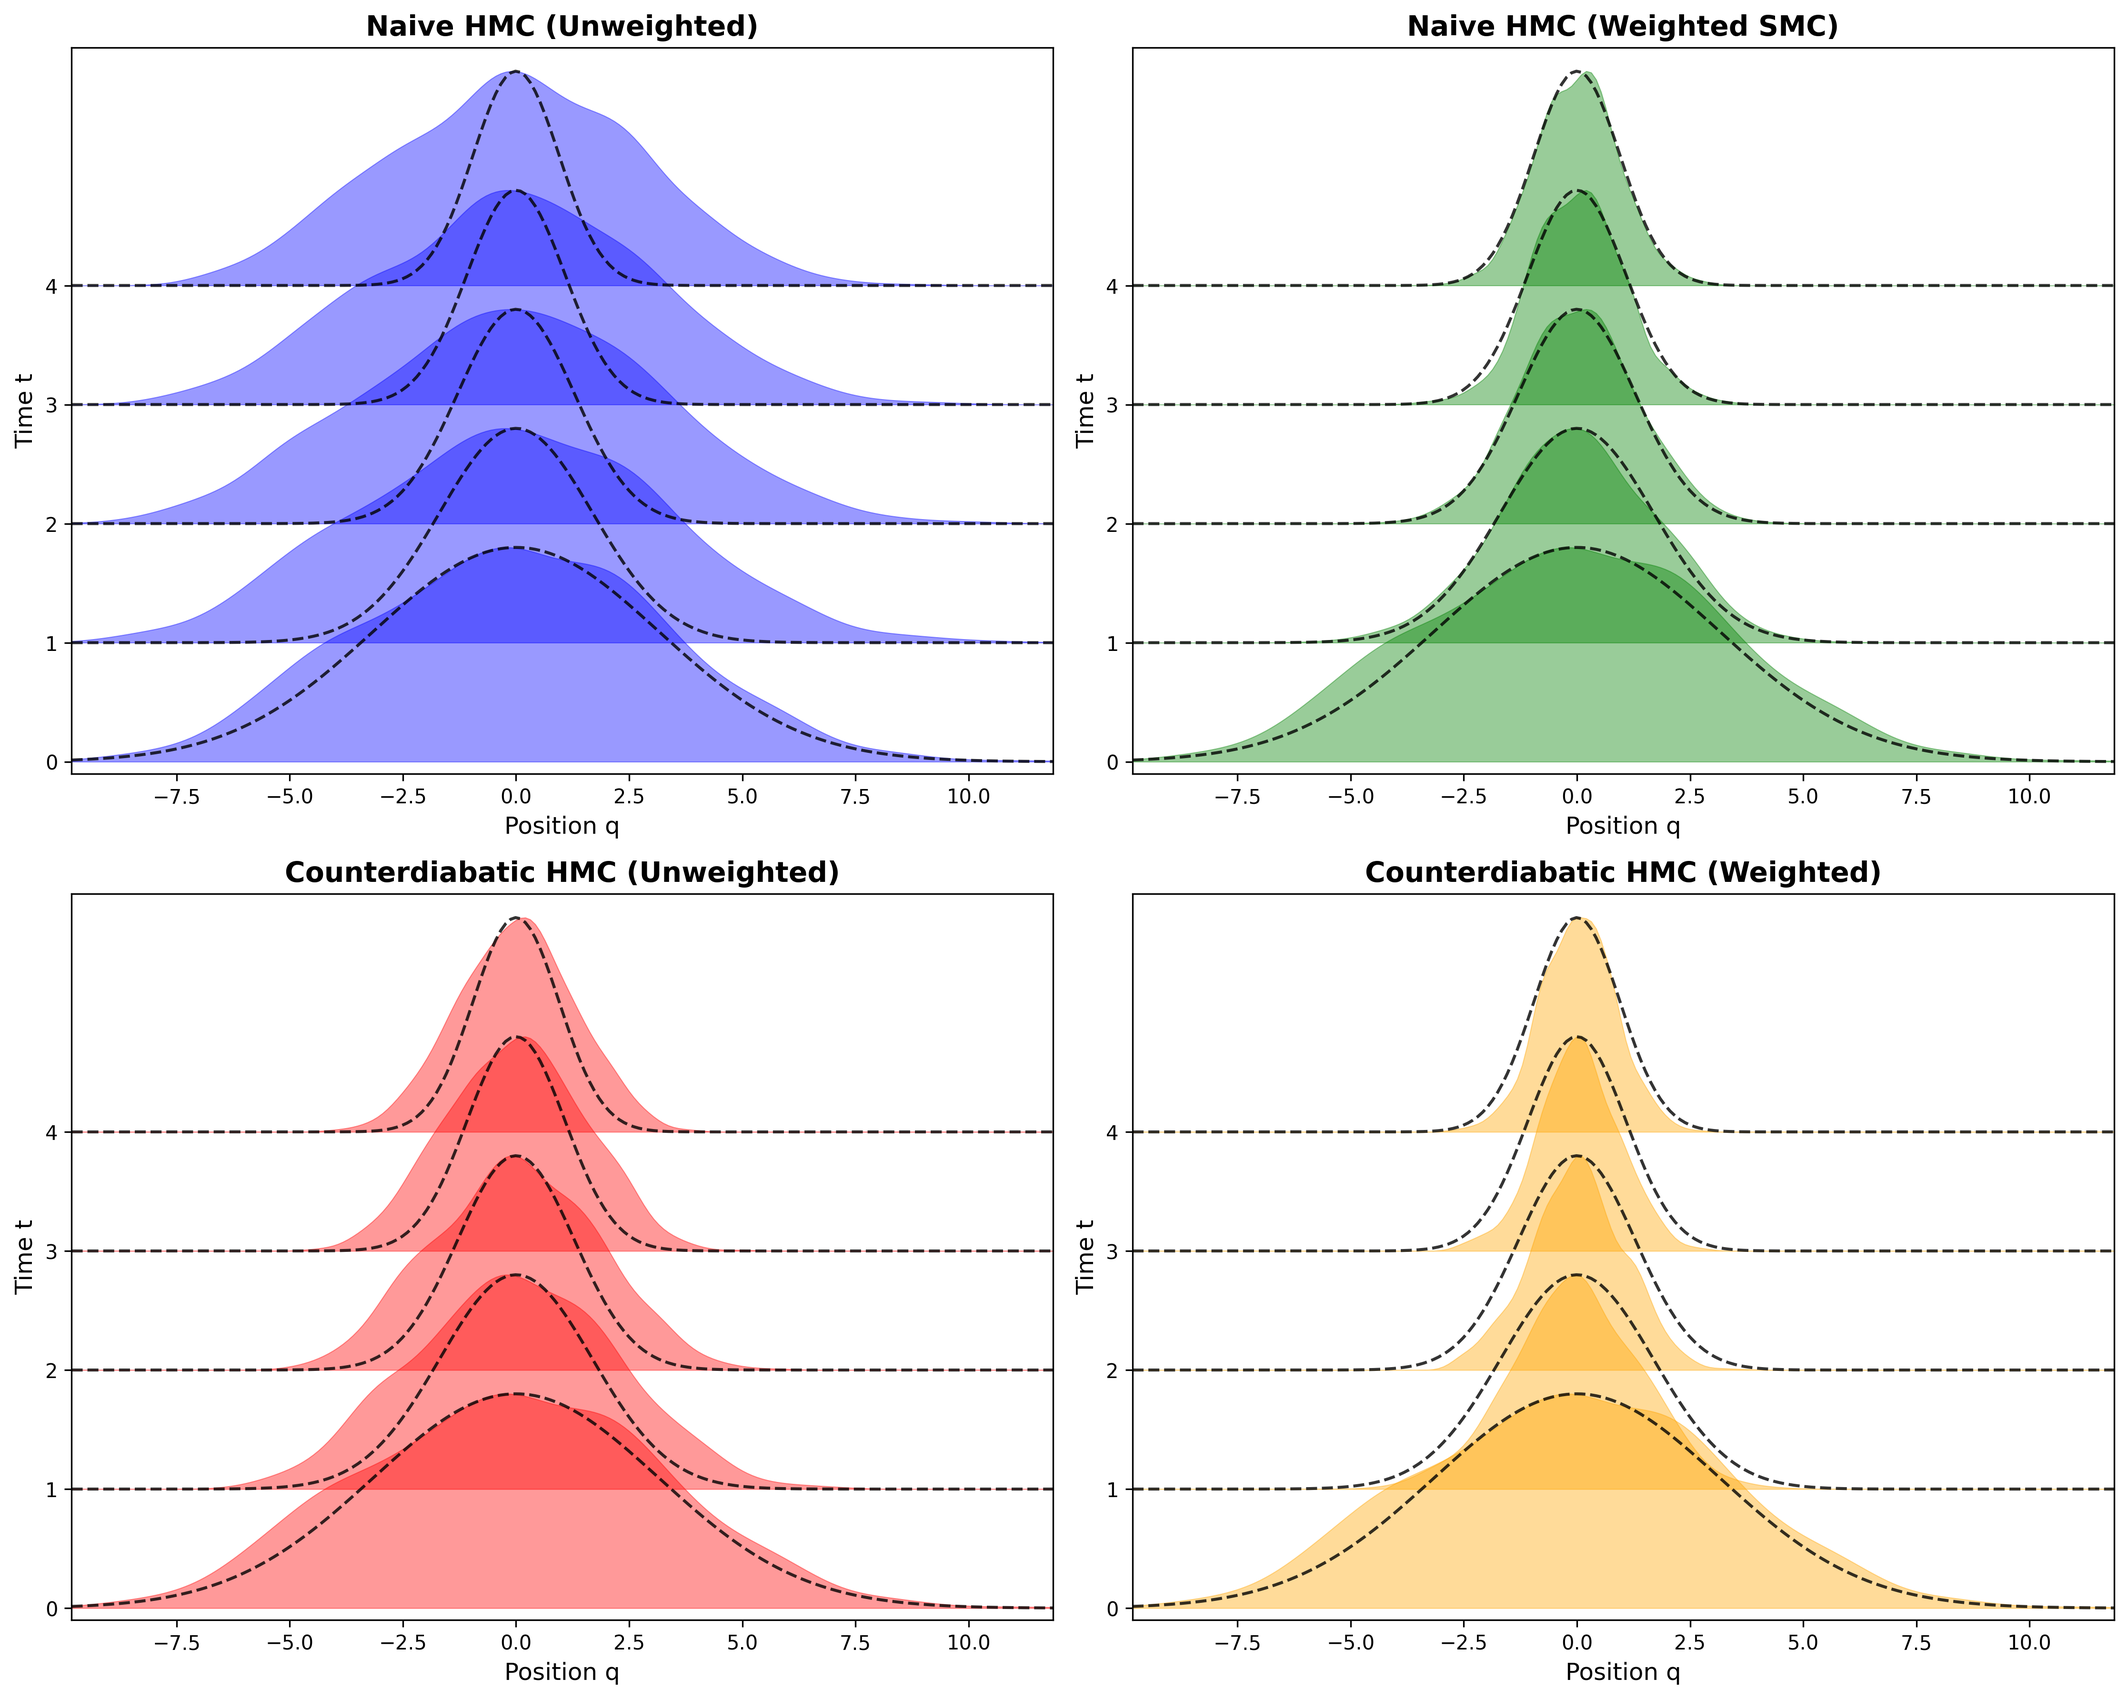
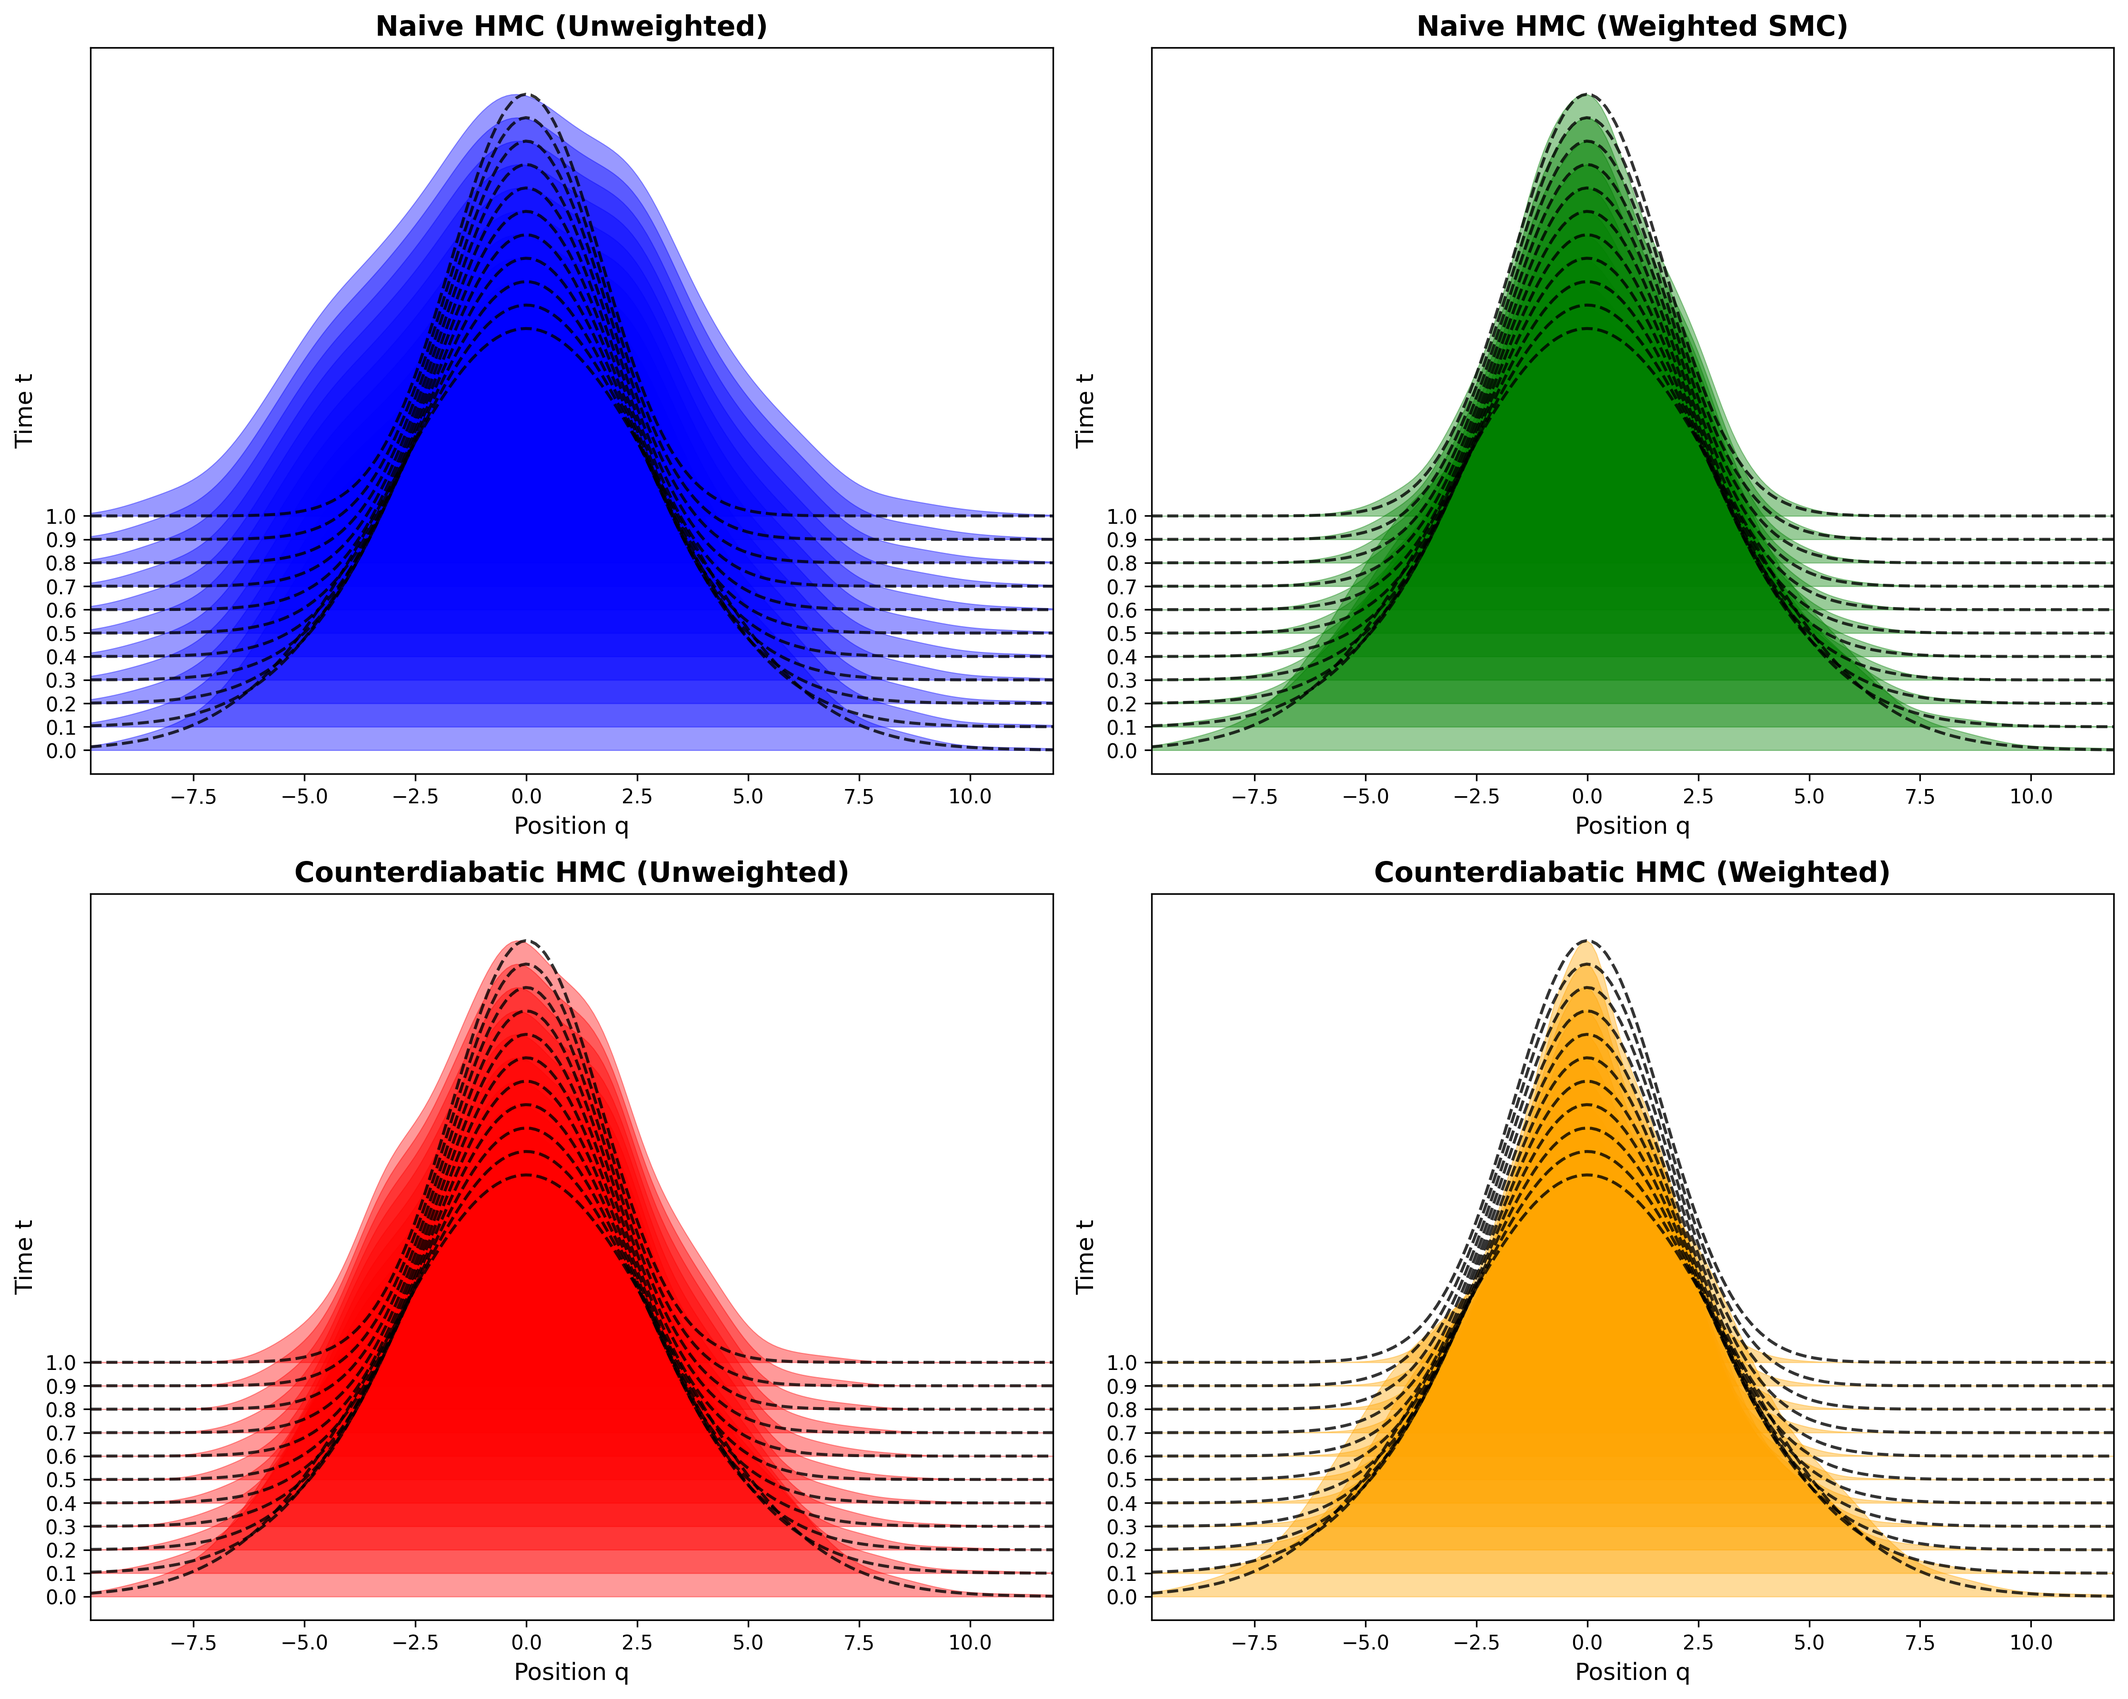
alternate working branch

diff --git a/src/plotting.py b/src/plotting.py
@@ -186,7 +186,7 @@ def create_ridge_plot(snapshots, delta_t, make_V, lam_fn, potential_name="harmon
     has_weights = 'weights' in snapshots and any(w is not None for w in snapshots['weights'])
     
     # Get time points
-    times = np.arange(len(snapshots['cd_pre_equil'])) * delta_t * 10  # *10 because we record every 10 steps
+    times = np.arange(len(snapshots['cd_pre_equil'])) * delta_t  # Record every step now
     
     # For post-equilibration snapshots, the timing is different
     # They represent the state after CD step + re-equilibration, so they should be plotted
@@ -194,7 +194,7 @@ def create_ridge_plot(snapshots, delta_t, make_V, lam_fn, potential_name="harmon
     if has_re_equil:
         # Post-equilibration snapshots are stored at the end of timesteps
         # So they should be plotted at the next timestep's time
-        post_equil_times = np.arange(1, len(snapshots['cd_post_equil']) + 1) * delta_t * 10
+        post_equil_times = np.arange(1, len(snapshots['cd_post_equil']) + 1) * delta_t
     else:
         post_equil_times = np.array([])
     
@@ -365,8 +365,11 @@ def create_distributions_plot(snapshots, delta_t, make_V, ansatz_dir, potential_
     # Create grid layout: 2 rows, 4 columns
     gs = fig.add_gridspec(4, 4, height_ratios=[1, 1, 1, 1], width_ratios=[1, 1, 1, 1])
     
-    # Define time points to plot (every 10 steps)
-    times = np.arange(len(snapshots['cd_pre_equil'])) * delta_t * 10
+    # Define time points to plot (every step now)
+    times = np.arange(len(snapshots['cd_pre_equil'])) * delta_t
+    
+    # Check if this is a weighted simulation
+    has_weights = 'weights_cd' in snapshots and len(snapshots['weights_cd']) > 0
     
     # Plot distributions at different time points (top 2 rows)
     for i, (time, lam_val) in enumerate(zip(times, snapshots['lam_pre_equil'])):
@@ -381,13 +384,35 @@ def create_distributions_plot(snapshots, delta_t, make_V, ansatz_dir, potential_
         if 'cd_pre_equil' in snapshots and i < len(snapshots['cd_pre_equil']):
             cd_snap = snapshots['cd_pre_equil'][i]
             if len(cd_snap) > 0:
-                ax.hist(cd_snap.flatten(), bins=50, alpha=0.6, label='CD-HMC', density=True, color='red')
+                if has_weights and i < len(snapshots['weights_cd']):
+                    # Use weighted histogram
+                    weights = snapshots['weights_cd'][i]
+                    if weights is not None and not np.allclose(weights, 0.0):
+                        # Convert log weights to regular weights
+                        weights = np.exp(weights - np.max(weights))
+                        weights = weights / np.sum(weights)
+                        ax.hist(cd_snap.flatten(), bins=50, alpha=0.6, label='CD-HMC (Weighted)', density=True, color='red', weights=weights)
+                    else:
+                        ax.hist(cd_snap.flatten(), bins=50, alpha=0.6, label='CD-HMC', density=True, color='red')
+                else:
+                    ax.hist(cd_snap.flatten(), bins=50, alpha=0.6, label='CD-HMC', density=True, color='red')
         
         # Plot naive HMC distribution if available
         if naive_snapshots and 'naive' in naive_snapshots and i < len(naive_snapshots['naive']):
             naive_snap = naive_snapshots['naive'][i]
             if len(naive_snap) > 0:
-                ax.hist(naive_snap.flatten(), bins=50, alpha=0.6, label='Naive HMC', density=True, color='blue')
+                # Check if naive simulation also has weights
+                naive_has_weights = 'weights_naive' in naive_snapshots and len(naive_snapshots['weights_naive']) > 0
+                if naive_has_weights and i < len(naive_snapshots['weights_naive']):
+                    weights = naive_snapshots['weights_naive'][i]
+                    if weights is not None and not np.allclose(weights, 0.0):
+                        weights = np.exp(weights - np.max(weights))
+                        weights = weights / np.sum(weights)
+                        ax.hist(naive_snap.flatten(), bins=50, alpha=0.6, label='Naive HMC (Weighted)', density=True, color='blue', weights=weights)
+                    else:
+                        ax.hist(naive_snap.flatten(), bins=50, alpha=0.6, label='Naive HMC', density=True, color='blue')
+                else:
+                    ax.hist(naive_snap.flatten(), bins=50, alpha=0.6, label='Naive HMC', density=True, color='blue')
         
         # Plot true distribution
         x_grid = np.linspace(-5, 5, 1000)
@@ -474,7 +499,7 @@ def create_distributions_plot(snapshots, delta_t, make_V, ansatz_dir, potential_
         ax_params = fig.add_subplot(gs[3, 1:])
         param_history_array = np.array(param_history)
         # Create time array for parameter history (every 10 steps)
-        param_times = np.arange(len(param_history_array)) * delta_t * 10
+        param_times = np.arange(len(param_history_array)) * delta_t
         for i in range(param_history_array.shape[1]):
             ax_params.plot(param_times, param_history_array[:, i], 
                           label=f'Param {i}', alpha=0.7)

diff --git a/src/simulation.py b/src/simulation.py
@@ -128,8 +128,8 @@ def compute_naive_weights(q, p, lam_k, lam_k1, make_T, make_V):
 
 def record_snapshots(snapshots, k, q_cd, lam_k, use_weights, log_weights_cd, 
                     resampling_count_cd, param_history, A_ansatz):
-    """Record snapshots and parameters every 10 steps."""
-    if k % 10 == 0:
+    """Record snapshots and parameters every step."""
+    if True:  # Record every step instead of every 10 steps
         # Store weighted samples for CD-HMC
         snapshots['cd_weighted'].append(np.array(q_cd))
         snapshots['weights_cd'].append(np.array(log_weights_cd))
@@ -265,8 +265,8 @@ def run_naive_hmc_simulation(M, N_steps, delta_t, eps, momentum_refresh_interval
         # Update previous energy values for next iteration
         prev_naive_H_vals = naive_stats['H_vals']
 
-        # Record snapshots every 10 steps
-        if k % 10 == 0:
+        # Record snapshots every step
+        if True:  # Record every step instead of every 10 steps
             snapshots['naive'].append(np.array(q_naive))
             snapshots['naive_weighted'].append(np.array(q_naive))
             snapshots['weights_naive'].append(np.array(log_weights))
@@ -599,7 +599,7 @@ def run_simulation(M, N_steps, delta_t, eps, momentum_refresh_interval, fit_ever
             
             # Store post-equilibration state at the current snapshot time
             # This represents the state after CD step + re-equilibration at the current lambda
-            if k % 10 == 0:  # Store at the current snapshot time
+            if True:  # Store every step instead of every 10 steps
                 snapshots['cd_post_equil'].append(np.array(q_cd_pre_equil))
                 snapshots['lam_post_equil'].append(lam_k1) # Store lambda at post-equilibration (use lam_k1 since re-equilibration happens at next lambda)
 
@@ -607,20 +607,20 @@ def run_simulation(M, N_steps, delta_t, eps, momentum_refresh_interval, fit_ever
             p_cd = p_cd_pre_equil.copy()
         else:
             # When re_equil_steps = 0, store the CD state directly as post-equilibration
-            if k % 10 == 0:  # Store at the current snapshot time
+            if True:  # Store every step instead of every 10 steps
                 snapshots['cd_post_equil'].append(np.array(q_cd))
                 snapshots['lam_post_equil'].append(lam_k)
     
     # Ensure the final state is captured in post-equilibration snapshots
     # This is especially important when re_equil_steps = 0
-    if len(snapshots['cd_post_equil']) == 0 or (k % 10 != 0):
+    if len(snapshots['cd_post_equil']) == 0:  # Always capture final state since we're recording every step
         # If no post-equilibration snapshots exist or the last step wasn't captured
         snapshots['cd_post_equil'].append(np.array(q_cd))
         snapshots['lam_post_equil'].append(lam_k)
     
     # Also ensure the final state is captured in pre-equilibration snapshots
-    # This is needed when the loop ends at k = N_steps and k % 10 == 0
-    if (k % 10 == 0) and (len(snapshots['cd_pre_equil']) == 0 or snapshots['cd_pre_equil'][-1].shape != q_cd.shape):
+    # This is needed when the loop ends at k = N_steps
+    if len(snapshots['cd_pre_equil']) == 0 or snapshots['cd_pre_equil'][-1].shape != q_cd.shape:
         # If the last step wasn't captured in pre-equilibration snapshots
         snapshots['cd_pre_equil'].append(np.array(q_cd))
         snapshots['lam_pre_equil'].append(lam_k)

diff --git a/main.py b/main.py
@@ -34,8 +34,8 @@ def create_comparison_plots(all_snapshots, delta_t, make_V, lam_fn, system_name,
     if not first_snapshot:
         print("No valid snapshots found for plotting")
         return
-        
-    times = np.arange(len(first_snapshot)) * delta_t * 10
+    
+    times = np.arange(len(first_snapshot)) * delta_t
     
     # Find global range for consistent x-axis
     all_qs = []
@@ -164,7 +164,7 @@ def main():
     
     # Parameters
     M = 1000
-    N_steps = 40
+    N_steps = 10
     delta_t = 0.05
     eps = 0.05
     momentum_refresh_interval =  5.0
@@ -266,21 +266,22 @@ def main():
         print(f"\nCreating comparison plots for {len(successful_simulations)} successful simulations...")
         create_comparison_plots(successful_simulations, delta_t, make_V, lam_fn, system_name, dim)
         
-        # Also create the detailed distribution plot using CD-HMC data (if available)
+        # Create detailed distribution plots for both unweighted and weighted cases
         if 'cd_unweighted' in successful_simulations:
-            print("Creating detailed distribution plot...")
+            print("Creating detailed distribution plot for unweighted case...")
             loss_histories = successful_simulations.get('loss_histories_cd_unweighted', [])
             param_history = successful_simulations.get('param_history_cd_unweighted', None)
             naive_snapshots = successful_simulations.get('naive_unweighted', None)
             plot_results(successful_simulations['cd_unweighted'], loss_histories, delta_t, make_V, lam_fn, 
-                        param_history=param_history, ansatz=ansatz, potential_name=system_name, dim=dim, plot_ansatz=False, make_T=make_T, naive_snapshots=naive_snapshots)
-        elif 'cd_weighted' in successful_simulations:
-            print("Creating detailed distribution plot...")
+                        param_history=param_history, ansatz=ansatz, potential_name=f"{system_name}_cd_unweighted", dim=dim, plot_ansatz=False, make_T=make_T, naive_snapshots=naive_snapshots)
+        
+        if 'cd_weighted' in successful_simulations:
+            print("Creating detailed distribution plot for weighted case...")
             loss_histories = successful_simulations.get('loss_histories_cd_weighted', [])
             param_history = successful_simulations.get('param_history_cd_weighted', None)
             naive_snapshots = successful_simulations.get('naive_weighted', None)
             plot_results(successful_simulations['cd_weighted'], loss_histories, delta_t, make_V, lam_fn, 
-                        param_history=param_history, ansatz=ansatz, potential_name=system_name, dim=dim, plot_ansatz=False, make_T=make_T, naive_snapshots=naive_snapshots)
+                        param_history=param_history, ansatz=ansatz, potential_name=f"{system_name}_cd_weighted", dim=dim, plot_ansatz=False, make_T=make_T, naive_snapshots=naive_snapshots)
         
 
     else:

diff --git a/test_resampling.py b/test_resampling.py
@@ -88,7 +88,7 @@ def main():
                 
                 # Show resampling timeline
                 print(f"\nResampling timeline:")
-                for i, (t, resampling_count) in enumerate(zip(range(0, N_steps + 1, 10), resampling_events)):
+                for i, (t, resampling_count) in enumerate(zip(range(0, N_steps + 1, 1), resampling_events)):
                     if i > 0:
                         events_since_last = resampling_count - resampling_events[i-1]
                         if events_since_last > 0:
@@ -98,7 +98,7 @@ def main():
         
         # Show weight evolution
         print(f"\nWeight evolution:")
-        for i, (t, weights_snap) in enumerate(zip(range(0, N_steps + 1, 10), snapshots['weights'])):
+        for i, (t, weights_snap) in enumerate(zip(range(0, N_steps + 1, 1), snapshots['weights'])):
             if weights_snap is not None:
                 weights_np = np.exp(weights_snap - np.max(weights_snap))
                 weights_np = weights_np / np.sum(weights_np)
